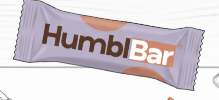
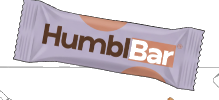
Change quiz duration to 15s everywhere and make upper HumblBar sticker transparent and prominent

diff --git a/app/page.js b/app/page.js
@@ -185,12 +185,12 @@ export default function HomePage() {
             </h1>
 
             <p className="hero-subtext">
-              Take our 60-second interactive quiz to uncover your unique <strong>Snack Personality</strong> and help pledge a nutritious meal to a child in need.
+              Take our 15-second interactive quiz to uncover your unique <strong>Snack Personality</strong> and help pledge a nutritious meal to a child in need.
             </p>
 
             <div className="hero-stats-row">
               <div className="stat-pill">
-                <span className="stat-value">60s</span>
+                <span className="stat-value">15s</span>
                 <span className="stat-label">Snack Quiz</span>
               </div>
               <div className="stat-pill">
@@ -213,6 +213,11 @@ export default function HomePage() {
 
           {/* Directed Visual: Classroom Dream & Cause Story Card */}
           <div style={{ position: 'relative', width: '100%' }}>
+            {/* Floating Clean HumblBar Product Wrapper Sticker */}
+            <div className="hero-floating-bar-sticker" title="HumblBar Clean Snack Bar">
+              <img src="/sticker_bar.png" alt="HumblBar Snack" className="hero-floating-bar-img" />
+            </div>
+
             <div className="dream-story-card">
               <div className="dream-card-inner">
                 {/* Left: Notebook Sketch */}
@@ -413,7 +418,7 @@ export default function HomePage() {
                       </div>
 
                       <button type="submit" className="submit-waitlist-btn">
-                        <span>Start 60-Second Quiz</span>
+                        <span>Start 15-Second Quiz</span>
                         <ArrowRight size={16} />
                       </button>
                     </form>

diff --git a/app/globals.css b/app/globals.css
@@ -286,6 +286,38 @@ body {
   box-shadow: 0 1px 0 #7E3518, 0 4px 8px rgba(0, 0, 0, 0.25);
 }
 
+/* Floating Clean HumblBar Product Wrapper Sticker */
+.hero-floating-bar-sticker {
+  position: absolute;
+  top: -24px;
+  right: 18px;
+  z-index: 10;
+  width: 140px;
+  filter: drop-shadow(0 10px 20px rgba(0, 0, 0, 0.45));
+  transform: rotate(8deg);
+  transition: transform 0.3s cubic-bezier(0.34, 1.56, 0.64, 1);
+  cursor: pointer;
+}
+
+.hero-floating-bar-sticker:hover {
+  transform: rotate(2deg) scale(1.08);
+}
+
+.hero-floating-bar-img {
+  width: 100%;
+  height: auto;
+  object-fit: contain;
+  display: block;
+}
+
+@media (max-width: 768px) {
+  .hero-floating-bar-sticker {
+    width: 110px;
+    top: -18px;
+    right: 12px;
+  }
+}
+
 /* Dream Story Card - Fully Responsive & Non-clipping */
 .dream-story-card {
   background: #E8F4F8;

diff --git a/app/layout.js b/app/layout.js
@@ -2,7 +2,7 @@ import './globals.css';
 
 export const metadata = {
   title: 'HumblBar — Snack for You. Hope for a Child. | VIP Founding Waitlist',
-  description: '15g Clean Protein, 0g Added Sugar, 100% Whole Ingredients. Take our 60-second Snack DNA quiz and pledge a child meal with every bar.',
+  description: '15g Clean Protein, 0g Added Sugar, 100% Whole Ingredients. Take our 15-second Snack DNA quiz and pledge a child meal with every bar.',
   keywords: 'protein bar, clean protein, medjool dates, healthy snacks, child meal donation, humblbar'
 };
 
